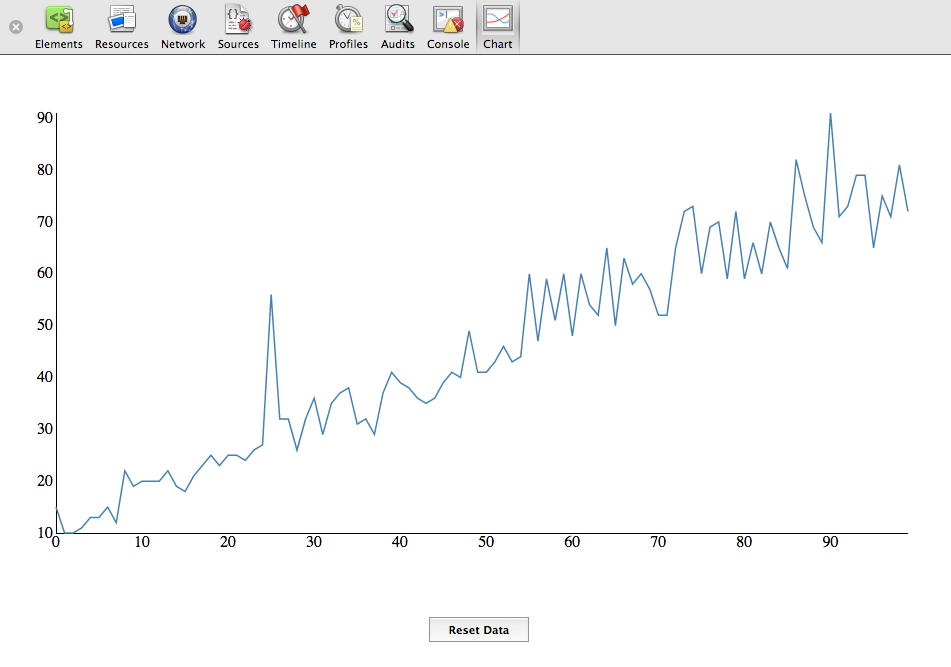
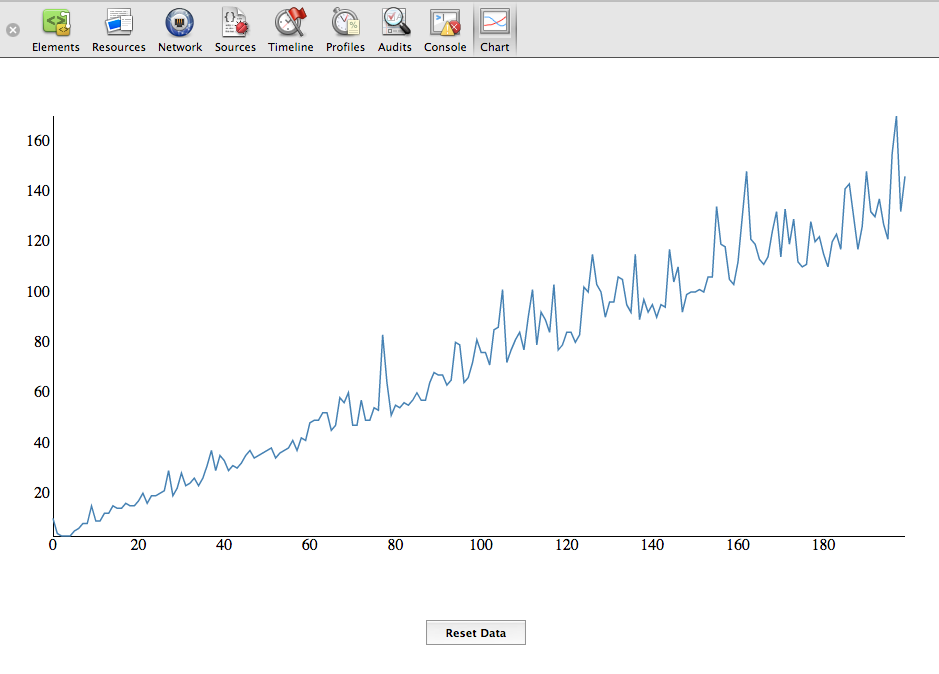
A slightly better sample

diff --git a/README.md b/README.md
@@ -4,14 +4,14 @@ console.chart
 A chrome extension that adds a function console.chart() that graphs to a chart into a new Developer Tools Panel. It is a visual representation of some quantity for debugging purposes.
 
 
-For example, this adds 10,000 random numbers to an array and sorts them, 100 times, logging the time it takes to do so.
+For example, this logs the time (in ms) to sort an array 200 times, each time adding 10,000 random elements to the end of it.
 ```javascript
     var array = [];
-    for (var i=0; i<100; i++) {
-        var date = Date.now();
+    for (var i=0; i<200; i++) {
         for (var j=0; j<10000; j++) {
             array.push(Math.floor(Math.random()*10));
         }
+        var date = Date.now();
         array.sort();
         console.chart(Date.now()-date);
     }
@@ -27,4 +27,3 @@ To do:
 - Add grid lines to axis
 - Support for multiple chart lines, so you might be able to do console.chart({"red": 3}, {"blue":5})
 - Add viewfinder for honing in on a specific range (like here: http://nvd3.org/ghpages/lineWithFocus.html )
-
